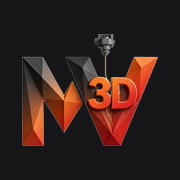
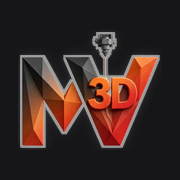
Logotipo maior e legível no fundo escuro, sem cache antigo
- Logotipo com 60 px no cabeçalho e contorno claro sutil nas áreas escuras
  (o cinza-escuro do "M" sumia no fundo); mesmo contorno no painel, ícones e prévia de link
- Imagens da marca com versão no endereço (?v=), para o navegador trocar a logo antiga pela nova

Changed region(s): [[0.1111, 0.1667, 0.8889, 0.8333]]

diff --git a/src/build.js b/src/build.js
@@ -9,6 +9,8 @@ const ARGS = process.argv.slice(2);
 const SAIDA = (ARGS.find(a => a.startsWith('--saida=')) || '--saida=dist').split('=')[1];
 const DIST = path.resolve(ROOT, SAIDA);
 const read = f => fs.readFileSync(path.join(ROOT, f), 'utf8');
+/* Versão no endereço das imagens da marca: quando o arquivo muda, o navegador baixa de novo em vez de usar o cache. */
+const ver = rel => { try { return '?v=' + require('crypto').createHash('md5').update(fs.readFileSync(path.join(ROOT, rel))).digest('hex').slice(0, 8); } catch (e) { return ''; } };
 const site = JSON.parse(read('data/site.json'));
 const loja = JSON.parse(read('data/produtos.json'));
 
@@ -105,7 +107,7 @@ function header(atual) {
 <header class="site-header">
   <div class="wrap hdr">
     <a class="brand" href="${B}" aria-label="${esc(site.nome)}, página inicial">
-      <img class="logo" src="${B}assets/img/logo-128.webp" alt="" width="128" height="106">
+      <img class="logo" src="${B}assets/img/logo-256.webp${ver('assets/img/logo-256.webp')}" alt="" width="256" height="212">
       <span><b>${esc(site.nome)}</b><small>${esc(site.slogan)}</small></span>
     </a>
     <nav class="nav" id="mainNav" aria-label="Principal">
@@ -145,7 +147,7 @@ function footer() {
   <div class="wrap">
     <div class="foot">
       <div>
-        <a class="brand" href="${B}"><img class="logo" src="${B}assets/img/logo-256.webp" alt="Logotipo MV 3D" width="256" height="212" loading="lazy"><span><b>${esc(site.nome)}</b><small>${esc(site.slogan)}</small></span></a>
+        <a class="brand" href="${B}"><img class="logo" src="${B}assets/img/logo-256.webp${ver('assets/img/logo-256.webp')}" alt="Logotipo MV 3D" width="256" height="212" loading="lazy"><span><b>${esc(site.nome)}</b><small>${esc(site.slogan)}</small></span></a>
         <p style="margin-top:16px;max-width:30em">Impressão 3D de decoração, colecionáveis, brinquedos e projetos sob encomenda, com envio para todo o Brasil.</p>
       </div>
       <div><h4>Loja</h4><ul><li><a href="${B}produtos/">Produtos</a></li><li><a href="${B}encomenda/">Sob encomenda</a></li><li><a href="${B}#materiais">Materiais</a></li><li><a href="${B}sobre/">Sobre</a></li></ul></div>
@@ -164,7 +166,7 @@ function footer() {
 </footer>`;
 }
 
-function layout({ path: p, titulo, descricao, conteudo, nav = '', jsonld = [], ogImage = 'og-image.png', extraHead = '' }) {
+function layout({ path: p, titulo, descricao, conteudo, nav = '', jsonld = [], ogImage = 'og-image.png' + ver('static/og-image.png'), extraHead = '' }) {
   const canonical = absUrl(p);
   const og = SITE_URL ? absUrl(ogImage) : B + ogImage;
   const dados = {
@@ -182,10 +184,10 @@ function layout({ path: p, titulo, descricao, conteudo, nav = '', jsonld = [], o
 <title>${esc(titulo)}</title>
 <meta name="description" content="${esc(descricao)}">
 ${canonical ? `<link rel="canonical" href="${canonical}">\n` : ''}<meta name="theme-color" content="#0C0C0D" id="themeColor">
-<link rel="icon" href="${B}favicon-32.png" sizes="32x32" type="image/png">
-<link rel="icon" href="${B}favicon-48.png" sizes="48x48" type="image/png">
-<link rel="apple-touch-icon" href="${B}apple-touch-icon.png">
-<link rel="manifest" href="${B}site.webmanifest">
+<link rel="icon" href="${B}favicon-32.png${ver('static/favicon-32.png')}" sizes="32x32" type="image/png">
+<link rel="icon" href="${B}favicon-48.png${ver('static/favicon-48.png')}" sizes="48x48" type="image/png">
+<link rel="apple-touch-icon" href="${B}apple-touch-icon.png${ver('static/apple-touch-icon.png')}">
+<link rel="manifest" href="${B}site.webmanifest${ver('static/site.webmanifest')}">
 <meta property="og:type" content="website">
 <meta property="og:locale" content="pt_BR">
 <meta property="og:site_name" content="${esc(site.nome)}">
@@ -250,7 +252,7 @@ function card(p) {
 
 const orgLd = () => {
   const e = site.empresa, o = { '@context': 'https://schema.org', '@type': 'Store', name: site.nome, description: 'Impressão 3D de decoração, colecionáveis, brinquedos e peças sob encomenda.', telephone: '+' + site.whatsapp, priceRange: 'R$' };
-  if (SITE_URL) { o.url = absUrl(''); o.logo = absUrl('assets/img/logo-512.webp'); o.image = absUrl('og-image.png'); }
+  if (SITE_URL) { o.url = absUrl(''); o.logo = absUrl('assets/img/logo-512.webp' + ver('assets/img/logo-512.webp')); o.image = absUrl('og-image.png' + ver('static/og-image.png')); }
   if (!isTodo(e.email)) o.email = e.email;
   if (!isTodo(e.razao_social)) o.legalName = e.razao_social;
   if (!isTodo(e.cidade_uf)) o.address = { '@type': 'PostalAddress', addressLocality: e.cidade_uf.split('/')[0].trim(), addressRegion: (e.cidade_uf.split('/')[1] || '').trim(), addressCountry: 'BR' };

diff --git a/admin/admin.css b/admin/admin.css
@@ -47,7 +47,7 @@ textarea{resize:vertical}
 body.acesso{min-height:100vh;display:grid;place-items:center;background:radial-gradient(50% 60% at 70% 20%,rgba(242,101,34,.18),transparent 70%),radial-gradient(40% 50% at 10% 90%,rgba(255,154,77,.12),transparent 70%),var(--bg)}
 .login{width:100%;padding:24px 16px}
 .login-card{max-width:400px;margin:0 auto;background:var(--surface);border:1px solid var(--line);border-radius:18px;padding:32px 28px;display:flex;flex-direction:column;gap:12px;box-shadow:0 30px 80px -40px rgba(242,101,34,.5)}
-.login-card img{width:auto;height:96px;align-self:flex-start;filter:drop-shadow(0 4px 18px rgba(242,101,34,.35))}
+.login-card img{width:auto;height:96px;align-self:flex-start;filter:drop-shadow(0 0 .8px rgba(255,255,255,.7)) drop-shadow(0 0 .8px rgba(255,255,255,.45)) drop-shadow(0 4px 18px rgba(242,101,34,.35))}
 .login-card h1{font-size:1.6rem}
 .login-card p{color:var(--muted);margin:0}
 .login-card .frm{grid-template-columns:1fr}
@@ -57,7 +57,7 @@ body.acesso{min-height:100vh;display:grid;place-items:center;background:radial-g
 body.painel #app{display:grid;grid-template-columns:240px minmax(0,1fr);min-height:100vh}
 .lateral{position:sticky;top:0;height:100vh;display:flex;flex-direction:column;gap:18px;padding:18px 14px;background:var(--bg-alt);border-right:1px solid var(--line);overflow-y:auto}
 .marca{display:flex;align-items:center;gap:10px;text-decoration:none;color:var(--ink);padding:4px 6px}
-.marca img{width:auto;height:38px}
+.marca img{width:auto;height:38px;filter:drop-shadow(0 0 .6px rgba(255,255,255,.75)) drop-shadow(0 0 .6px rgba(255,255,255,.5)) drop-shadow(0 0 10px rgba(255,255,255,.14))}
 .marca b{display:block;font:800 1rem/1.1 var(--font-display);font-stretch:85%}
 .marca small{font:500 .65rem/1 var(--font-mono);letter-spacing:.14em;text-transform:uppercase;color:var(--accent)}
 .menu{display:flex;flex-direction:column;gap:2px}

diff --git a/admin/js/app.js b/admin/js/app.js
@@ -36,7 +36,7 @@ async function telaAcesso() {
   try { primeiro = (await (await fetch(`${BASE}/api/mv/status`)).json()).primeiro_acesso; } catch (e) { /* servidor fora do ar */ }
   $('#app').innerHTML = `<main class="login">
     <div class="login-card">
-      <img src="${BASE}/assets/img/logo-256.webp" alt="Logotipo MV 3D" width="116" height="96">
+      <img src="${BASE}/assets/img/logo-256.webp?v=mv3d2" alt="Logotipo MV 3D" width="116" height="96">
       <h1>${primeiro ? 'Primeiro acesso' : 'Painel Métricas Vaz 3D'}</h1>
       <p>${primeiro ? 'Crie a conta do dono do sistema. Depois você cadastra a equipe em Equipe.' : 'Entre com seu e-mail e senha.'}</p>
       <form id="fAcesso" class="frm" novalidate>
@@ -73,7 +73,7 @@ function montarLayout() {
   const telas = TELAS.filter(t => !t.dono || ctx.dono);
   $('#app').innerHTML = `
   <aside class="lateral" id="lateral">
-    <a class="marca" href="#/inicio"><img src="${BASE}/assets/img/logo-128.webp" alt="" width="46" height="38"><span><b>Métricas Vaz 3D</b><small>Painel</small></span></a>
+    <a class="marca" href="#/inicio"><img src="${BASE}/assets/img/logo-256.webp?v=mv3d2" alt="" width="46" height="38"><span><b>Métricas Vaz 3D</b><small>Painel</small></span></a>
     <nav class="menu" aria-label="Painel">${telas.map(t => `<a href="#/${t.id}" data-tela="${t.id}">${t.ic}<span>${t.nome}</span>${t.id === 'pedidos' ? '<em class="badge" id="bPedidos" hidden></em>' : ''}</a>`).join('')}</nav>
     <div class="lateral-pe">
       <a href="${BASE}/" target="_blank" rel="noopener">Ver a loja ↗</a>

diff --git a/assets/css/site.css b/assets/css/site.css
@@ -715,3 +715,12 @@ mark.todo{background:#FFE58A;color:#3A2E00;border-radius:4px;padding:.05em .3em;
 @media (min-width:1100px){.hero-bg{left:30%}}
 .assure > div:nth-child(n){padding:20px 22px}
 @media (max-width:520px){.assure > div:nth-child(n){padding:16px 18px}}
+/* logotipo maior no cabeçalho */
+.hdr{height:78px}
+.brand .logo,:root[data-theme="light"] .brand .logo{height:60px}
+.brand b{font-size:1.3rem}
+@media (max-width:560px){.hdr{height:66px}.brand .logo,:root[data-theme="light"] .brand .logo{height:46px}}
+html{scroll-padding-top:92px}
+/* contorno claro sutil: separa o cinza-escuro do "M" do fundo escuro sem mudar as cores da marca */
+.site-header .brand .logo,.footer .brand .logo,:root[data-theme="light"] .site-header .brand .logo,:root[data-theme="light"] .footer .brand .logo{
+  filter:drop-shadow(0 0 .6px rgba(255,255,255,.75)) drop-shadow(0 0 .6px rgba(255,255,255,.5)) drop-shadow(0 0 10px rgba(255,255,255,.14))}
